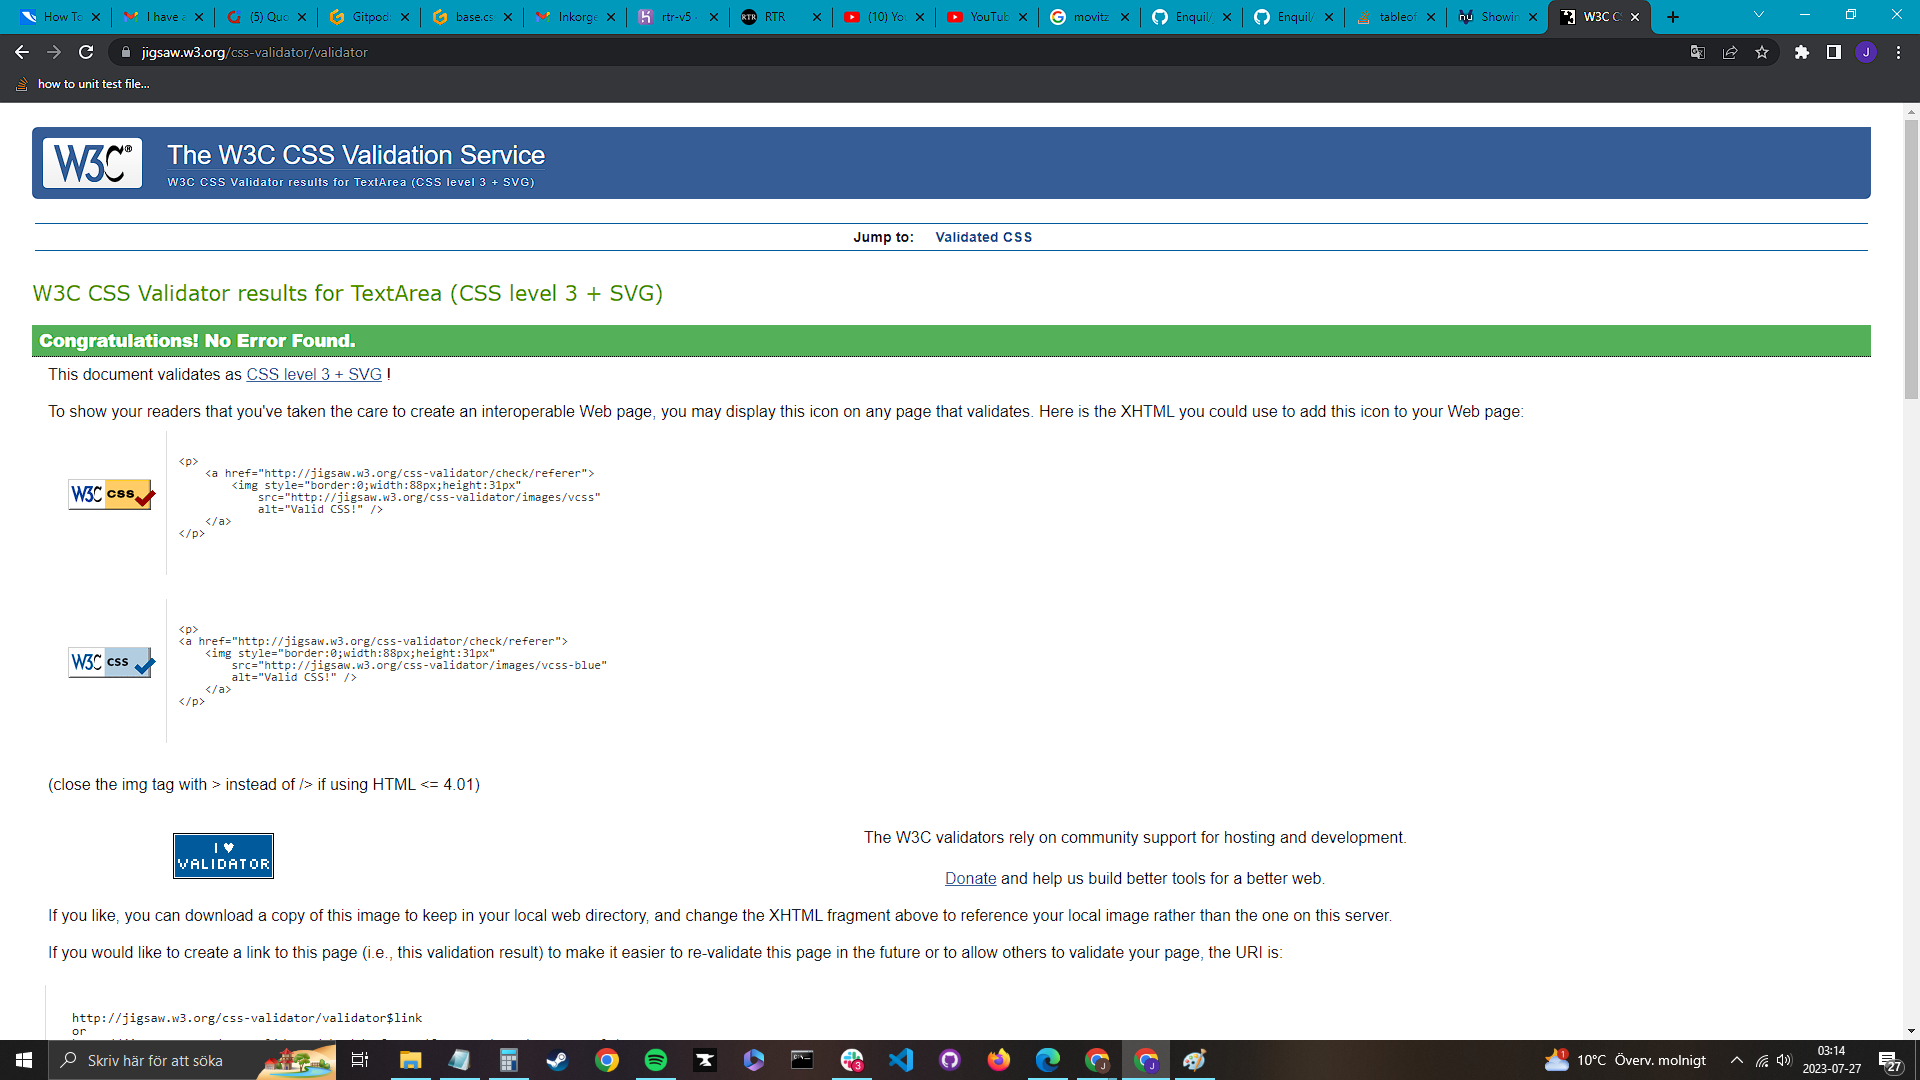
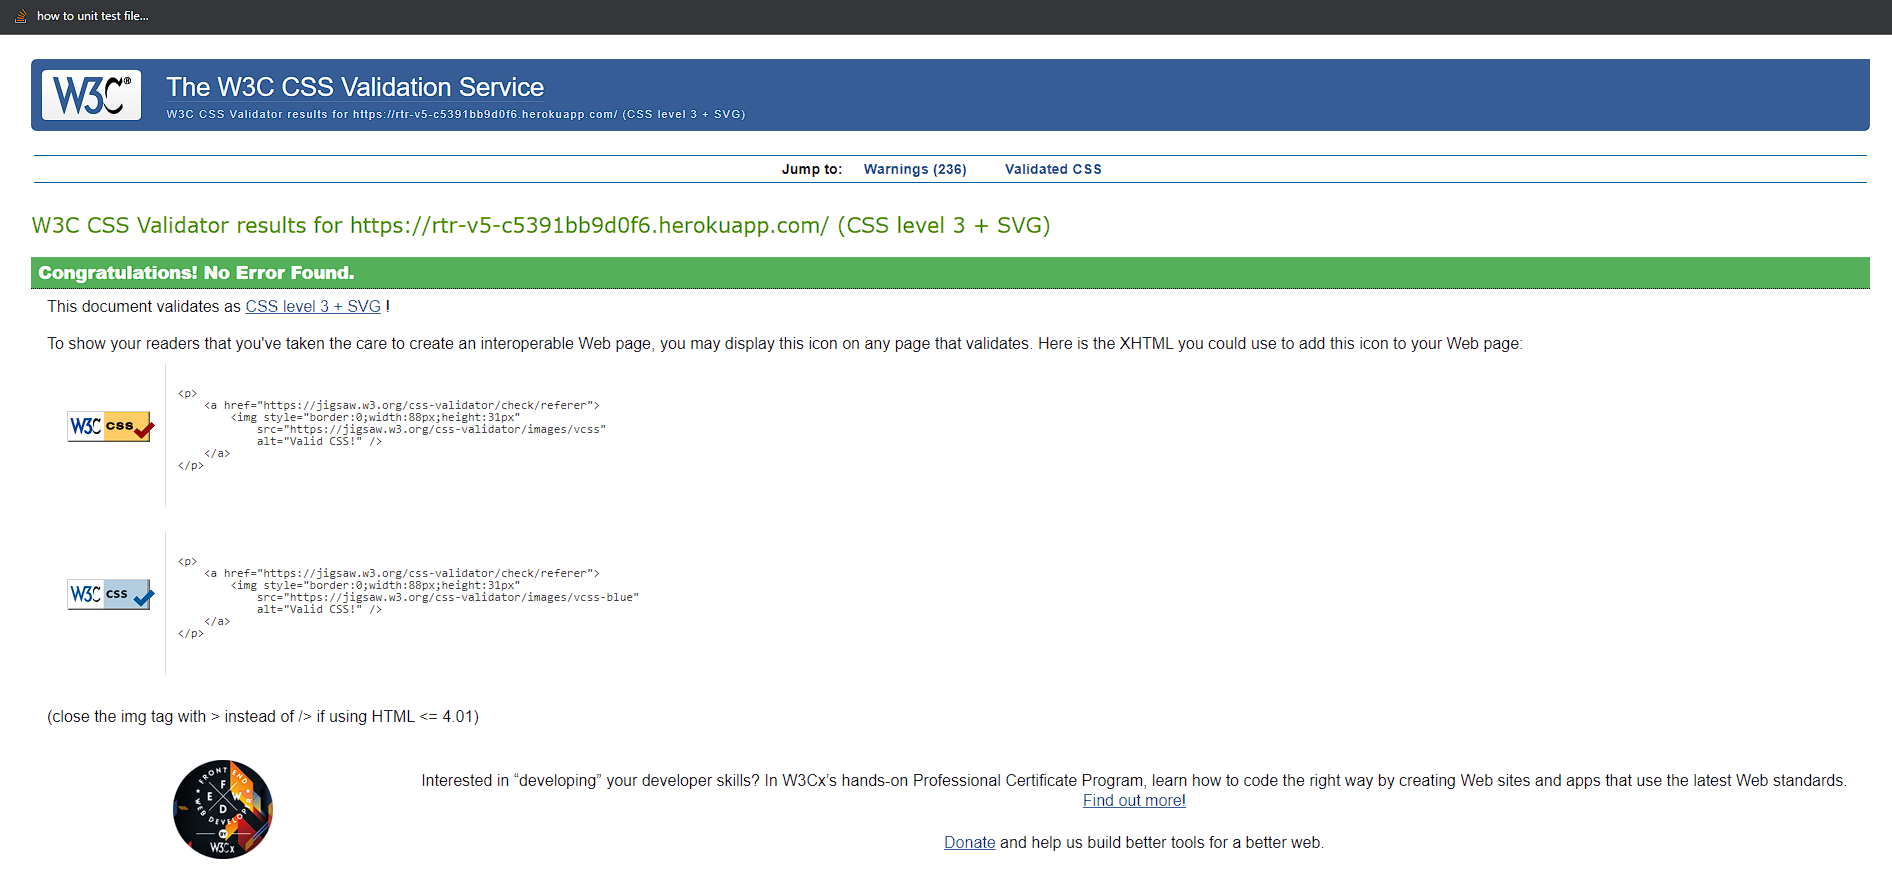
added w3c css test

Changed region(s): [[0.0, 0.0, 1.0, 0.4039], [0.0, 0.5903, 1.0, 1.0], [0.0312, 0.435, 0.3118, 0.5282]]

diff --git a/README.md b/README.md
@@ -354,6 +354,10 @@ signup
 
 #### W3C validation, CSS
 
+There is an img tag using />, not recommended but does not break anything  
+Warnings are all bootstrap  
+![w3c css](./images/w3c_css_validation/w3c_css.png)  
+
 ### What the User sees
 
 First, let's visit the deployed site:
